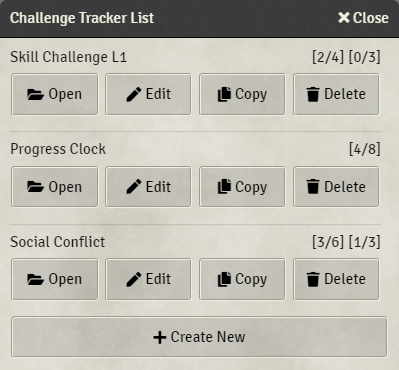
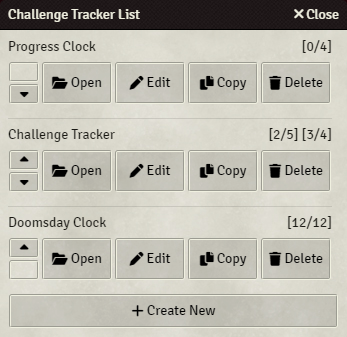
#29, gifs, Misc presets - #29: Add Scroll setting to open() and Edit Challenge Tracker form. - gifs: Add gifs to show Challenge Trackers in action. - Misc presets: Add some images into the presets/misc folder.

diff --git a/scripts/main.js b/scripts/main.js
@@ -23,6 +23,7 @@ export class ChallengeTrackerSettings {
     'outerTotal',
     'ownerId',
     'persist',
+    'scroll',
     'show',
     'size',
     'title',
@@ -86,6 +87,7 @@ export class ChallengeTracker extends Application {
       outerCurrent: ChallengeTrackerSettings.default.outerCurrent,
       outerTotal: ChallengeTrackerSettings.default.outerTotal,
       persist: ChallengeTrackerSettings.default.persist,
+      scroll: ChallengeTrackerSettings.default.scroll,
       show: ChallengeTrackerSettings.default.show,
       size: null,
       title: ChallengeTrackerSettings.title,
@@ -116,6 +118,7 @@ export class ChallengeTracker extends Application {
     this.challengeTrackerOptions.innerBackgroundColor = challengeTrackerOptions.innerBackgroundColor ?? null
     this.challengeTrackerOptions.frameColor = challengeTrackerOptions.frameColor ?? null
     this.challengeTrackerOptions.frameWidth = challengeTrackerOptions.frameWidth ?? null
+    this.challengeTrackerOptions.scroll = challengeTrackerOptions.scroll ?? null
     this.challengeTrackerOptions.size = challengeTrackerOptions.size ?? null
     this.challengeTrackerOptions.windowed = [true, false].includes(challengeTrackerOptions.windowed)
       ? challengeTrackerOptions.windowed
@@ -137,6 +140,7 @@ export class ChallengeTracker extends Application {
     this.outerBackgroundColorShade = null
     this.outerColor = null
     this.outerColorShade = null
+    this.scroll = null
     this.size = null
     this.windowed = null
     this.backgroundImage = new Image()
@@ -170,6 +174,9 @@ export class ChallengeTracker extends Application {
   async setVariables () {
     this.frameWidth = this.challengeTrackerOptions.frameWidth ??
       Utils.getSetting('challenge-tracker', 'frameWidth', ChallengeTrackerSettings.default.frameWidth)
+    this.scroll = this.challengeTrackerOptions.scroll ??
+      Utils.getSetting('challenge-tracker', 'scroll', ChallengeTrackerSettings.default.scroll)
+    this.updateScroll(this.scroll)
     this.size = this.challengeTrackerOptions.size ??
       Utils.getSetting('challenge-tracker', 'size', ChallengeTrackerSettings.default.size)
     this.windowed = this.challengeTrackerOptions.windowed ??
@@ -237,6 +244,7 @@ export class ChallengeTracker extends Application {
   * @param {number} challengeTrackerOptions.outerTotal Number of segments for the outer ring
   * @param {string} challengeTrackerOptions.ownerId Owner of the challenge tracker
   * @param {boolean} challengeTrackerOptions.persist true = Persist, false = Do not persist
+  * @param {boolean} challengeTrackerOptions.scroll true = Enable, false = Disable
   * @param {boolean} challengeTrackerOptions.show true = Show, false = Hide
   * @param {number} challengeTrackerOptions.size Size of the challenge tracker in pixels
   * @param {string} challengeTrackerOptions.title Title of the challenge tracker
@@ -267,6 +275,7 @@ export class ChallengeTracker extends Application {
       outerTotal: ChallengeTrackerSettings.default.outerTotal,
       ownerId: null,
       persist: ChallengeTrackerSettings.default.persist,
+      scroll: ChallengeTrackerSettings.default.scroll,
       show: ChallengeTrackerSettings.default.show,
       size: ChallengeTrackerSettings.default.size,
       title: ChallengeTrackerSettings.default.title,
@@ -389,6 +398,7 @@ export class ChallengeTracker extends Application {
   * @param {number} challengeTrackerOptions.outerCurrent Number of filled segments of the outer ring
   * @param {number} challengeTrackerOptions.outerTotal Number of segments for the outer ring
   * @param {boolean} challengeTrackerOptions.persist true = Persist, false = Do not persist
+  * @param {boolean} challengeTrackerOptions.scroll true = Enable, false = Disable
   * @param {boolean} challengeTrackerOptions.show true = Show, false = Hide
   * @param {number} challengeTrackerOptions.size Size of the challenge tracker in pixels
   * @param {string} challengeTrackerOptions.title Title of the challenge tracker
@@ -565,7 +575,7 @@ export class ChallengeTracker extends Application {
       this.canvasFrame.addEventListener('contextmenu', (event) => this.challengeTrackerContextMenuEvent(event),
         { signal: this.eventListenerSignal }
       )
-      if (Utils.getSetting('challenge-tracker', 'scroll', ChallengeTrackerSettings.default.scroll)) {
+      if (this.scroll) {
         if (this.eventListenerSignalScroll == null || this.eventListenerSignalScroll.aborted) {
           this.eventListenerControllerScroll = new AbortController()
           this.eventListenerSignalScroll = this.eventListenerControllerScroll.signal
@@ -638,7 +648,6 @@ export class ChallengeTracker extends Application {
     const x = this.mousePosition.x - rect.left
     const y = this.mousePosition.y - rect.top
     if (this.challengeTrackerOptions.innerTotal > 0 && this.contextFrame.isPointInPath(this.innerArc, x, y)) {
-      console.log(event.code)
       if (event.code === 'Minus') {
         if (this.challengeTrackerOptions.innerTotal > 1) this.challengeTrackerOptions.innerTotal--
         this.challengeTrackerOptions.innerCurrent =
@@ -652,7 +661,6 @@ export class ChallengeTracker extends Application {
         this._draw()
       }
     } else if (this.contextFrame.isPointInPath(this.outerArc, x, y)) {
-      console.log(event.code)
       if (event.code === 'Minus') {
         if (this.challengeTrackerOptions.outerTotal > 1) this.challengeTrackerOptions.outerTotal--
         this._draw()
@@ -714,6 +722,7 @@ export class ChallengeTracker extends Application {
   * @param {number} challengeTrackerOptions.outerCurrent Number of filled segments of the outer ring
   * @param {number} challengeTrackerOptions.outerTotal Number of segments for the outer ring
   * @param {boolean} challengeTrackerOptions.persist true = Persist, false = Do not persist
+  * @param {boolean} challengeTrackerOptions.scroll true = Enable, false = Disable
   * @param {boolean} challengeTrackerOptions.show true = Show, false = Hide
   * @param {number} challengeTrackerOptions.size Size of the challenge tracker in pixels
   * @param {string} challengeTrackerOptions.title Title of the challenge tracker
@@ -762,6 +771,7 @@ export class ChallengeTracker extends Application {
   * @param {number} challengeTrackerOptions.outerCurrent Number of filled segments of the outer ring
   * @param {number} challengeTrackerOptions.outerTotal Number of segments for the outer ring
   * @param {boolean} challengeTrackerOptions.persist true = Persist, false = Do not persist
+  * @param {boolean} challengeTrackerOptions.scroll true = Enable, false = Disable
   * @param {boolean} challengeTrackerOptions.show true = Show, false = Hide
   * @param {number} challengeTrackerOptions.size Size of the challenge tracker in pixels
   * @param {string} challengeTrackerOptions.title Title of the challenge tracker
@@ -796,6 +806,7 @@ export class ChallengeTracker extends Application {
   * @param {number} challengeTrackerOptions.outerCurrent Number of filled segments of the outer ring
   * @param {number} challengeTrackerOptions.outerTotal Number of segments for the outer ring
   * @param {boolean} challengeTrackerOptions.persist true = Persist, false = Do not persist
+  * @param {boolean} challengeTrackerOptions.scroll true = Enable, false = Disable
   * @param {boolean} challengeTrackerOptions.show true = Show, false = Hide
   * @param {number} challengeTrackerOptions.size Size of the challenge tracker in pixels
   * @param {string} challengeTrackerOptions.title Title of the challenge tracker
@@ -1236,10 +1247,11 @@ export class ChallengeTracker extends Application {
   * Enable/disable scroll wheel event on all Challenge Trackers based on the module setting
   * @param {boolean} scroll Enable (true) or disable (false) the scroll wheel event
   **/
-  static updateScroll (scroll) {
+  updateScroll (scroll) {
     if (!game.challengeTracker) return
     for (const challengeTracker of Object.values(game.challengeTracker)) {
-      if (scroll) {
+      challengeTracker.scroll = challengeTracker.challengeTrackerOptions.scroll ?? scroll
+      if (challengeTracker.scroll) {
         if (challengeTracker.eventListenerSignalScroll == null || challengeTracker.eventListenerSignalScroll.aborted) {
           challengeTracker.eventListenerControllerScroll = new AbortController()
           challengeTracker.eventListenerSignalScroll = challengeTracker.eventListenerControllerScroll.signal
@@ -1501,6 +1513,7 @@ export class ChallengeTracker extends Application {
   * @param {number} challengeTrackerOptions.outerTotal Number of segments for the outer ring
   * @param {string} challengeTrackerOptions.ownerId Owner of the challenge tracker
   * @param {boolean} challengeTrackerOptions.persist true = Persist, false = Do not persist
+  * @param {boolean} challengeTrackerOptions.scroll true = Enable, false = Disable
   * @param {boolean} challengeTrackerOptions.show true = Show, false = Hide
   * @param {number} challengeTrackerOptions.size Size of the challenge tracker in pixels
   * @param {string} challengeTrackerOptions.title Title of the challenge tracker
@@ -1550,6 +1563,7 @@ export class ChallengeTracker extends Application {
   * @param {number} challengeTrackerOptions.outerTotal Number of segments for the outer ring
   * @param {string} challengeTrackerOptions.ownerId Owner of the challenge tracker
   * @param {boolean} challengeTrackerOptions.persist true = Persist, false = Do not persist
+  * @param {boolean} challengeTrackerOptions.scroll true = Enable, false = Disable
   * @param {boolean} challengeTrackerOptions.show true = Show, false = Hide
   * @param {number} challengeTrackerOptions.size Size of the challenge tracker in pixels
   * @param {string} challengeTrackerOptions.title Title of the challenge tracker
@@ -1749,6 +1763,7 @@ export class ChallengeTracker extends Application {
   * @param {number} challengeTrackerOptions.outerTotal Number of segments for the outer ring
   * @param {string} challengeTrackerOptions.ownerId Owner of the challenge tracker
   * @param {boolean} challengeTrackerOptions.persist true = Persist, false = Do not persist
+  * @param {boolean} challengeTrackerOptions.scroll true = Enable, false = Disable
   * @param {boolean} challengeTrackerOptions.show true = Show, false = Hide
   * @param {number} challengeTrackerOptions.size Size of the challenge tracker in pixels
   * @param {string} challengeTrackerOptions.title Title of the challenge tracker

diff --git a/README.md b/README.md
@@ -1,7 +1,7 @@
 # Challenge Tracker
 An interactive aid to track successes and failures in challenges à la D&D 4e-inspired skill challenges and Blades in the Dark progress clocks.
 
-![Challenge Tracker](./images/challenge-tracker.png) ![Progress Clock](./images/challenge-tracker-progress-clock.png)
+![Challenge Tracker](./images/challenge-tracker.gif)
 
 # Features
 - **Versatile:** Works for D&D 4e-inspired skill challenges, Blades in the Dark progress clocks, or as a resource/countdown tracker.
@@ -38,6 +38,21 @@ An interactive aid to track successes and failures in challenges à la D&D 4e-in
 # Module Settings
 Module settings are found in Foundry VTT under Game Settings > Configure Settings > Module Settings > Challenge Tracker.
 
+### **Frame Color**
+Set the default color of the frame. Default is #0f1414.
+
+### **Outer Color**
+Set the default color of the outer ring. Default is #228b22ff.
+
+### **Outer Background**
+Set the default background color of the outer ring. Default is #1b6f1b66.
+
+### **Inner Color**
+Set the default color of the inner circle. Default is #dc0000ff.
+
+### **Inner Background Color**
+Set the default background color of the inner circle. Default is #b0000066.
+
 ### **Display Button**
 Display the Challenge Tracker button to users with the selected role and above. Default is Player.
 
@@ -53,20 +68,11 @@ Set the default size of the Challenge Tracker in pixels. Default is 400.
 ### **Frame Width**
 Set the width of the frame. Default is Medium.
 
-### **Frame Color**
-Set the default color of the frame. Default is #0f1414.
+### **Scroll**
+Enable the scroll wheel for increasing or decreasing segments. Default is true.
 
-### **Outer Color**
-Set the default color of the outer ring. Default is #228b22ff.
-
-### **Outer Background**
-Set the default background color of the outer ring. Default is #1b6f1b66.
-
-### **Inner Color**
-Set the default color of the inner circle. Default is #dc0000ff.
-
-### **Inner Background Color**
-Set the default background color of the inner circle. Default is #b0000066.
+## **Windowed**
+Set Challenge Trackers to windowed by default. Default is true.
 
 # Advanced Options
 More options can be set  using an optional array parameter: `ChallengeTracker.open(successes failures, {options})` where options is a comma-separated list of any of the following parameters in the format `option: value`:
@@ -147,6 +153,11 @@ Example: `outerCurrent: 3`
 Set to `true` to persist the Challenge Tracker across sessions. Default is `false`.
 
 Example: `persist: true`
+
+### *scroll**
+Set to `true` to enable the scroll wheel for increasing or decreasing segments. Default is `true`.
+
+Example: `scroll: false`
 
 ### **show**
 Set to `true` to show the Challenge Tracker to your players. Default is `false`. This option will be ignored when the user's role is not equal to or greater than the role selected in the 'Allow Show to Others' module setting.
@@ -272,14 +283,14 @@ Examples:
 
 # Example Challenge Trackers
 ### Progress Clock
-`ChallengeTracker.open(8, 0, {show: true, title: 'Progress Clock'})`
+`ChallengeTracker.open(4, {show: true, frameWidth: 'none', outerBackgroundColor: '#00000000', outerColor: '#00000000', backgroundImage: 'modules/challenge-tracker/presets/blades-in-the-dark/blades-in-the-dark-4-white.webp', foregroundImage: 'modules/challenge-tracker/presets/blades-in-the-dark/blades-in-the-dark-black.webp', size: 150, title: 'Progress Clock'})`  
 
-![challenge-tracker-macro](./images/challenge-tracker-progress-clock.png)
+![Progress Clock](./images/progress-clock.gif)
 
-### Health & Mana
-`ChallengeTracker.open(10, 5, {show: true, outerCurrent: 10, innerCurrent: 5, outerColor: '#DC0000', innerColor: '#0040FF', title: 'Health & Mana'})`  
+### Doomsday Clock
+`ChallengeTracker.open(12, {show: true, frameWidth: 'none', outerBackgroundColor: '#00000000', outerColor: '#00000000', backgroundImage: 'modules/challenge-tracker/presets/misc/blessed-landscape.webp', foregroundImage: 'modules/challenge-tracker/presets/misc/doomed-landscape.webp', title: 'Doomsday Clock'})`  
 
-![challenge-tracker-macro](./images/challenge-tracker-health-mana.png)
+![Doomsday Clock](./images/doomsday-clock.gif)
 
 
 
